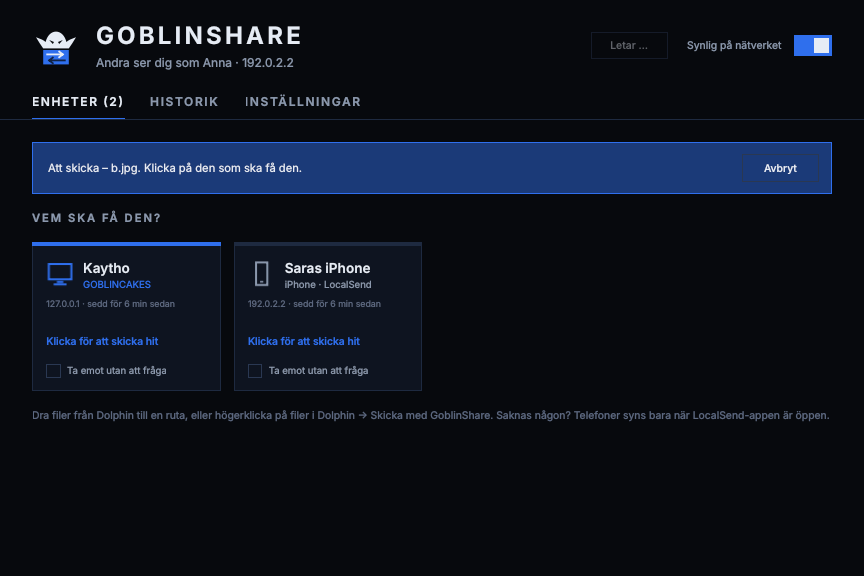
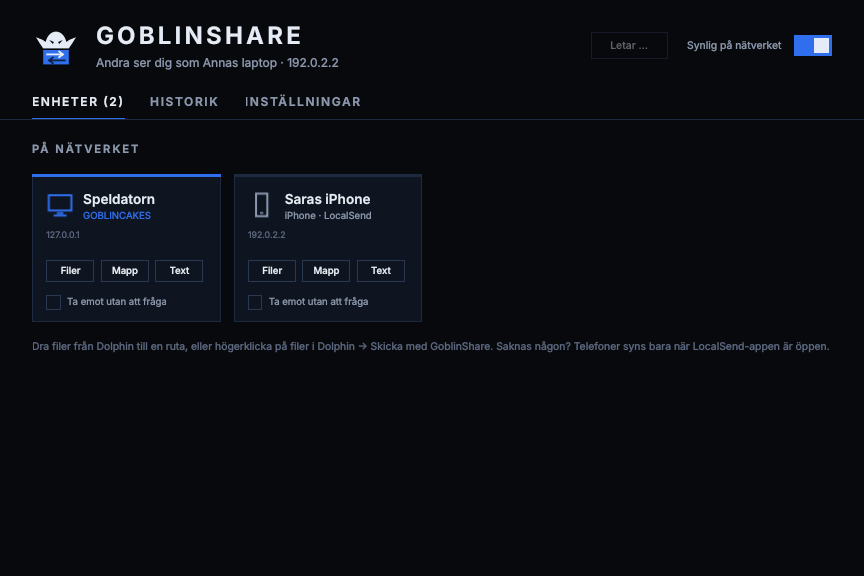
GoblinShare: nyheter, README, Kakans karta, anteckningar, testlista åt Kakan
Claude-Session: https://claude.ai/code/session_01KkxNUN9kdgkktQQkAE6Zqv

Changed region(s): [[0.0312, 0.2188, 0.9688, 0.6562], [0.0312, 0.7188, 0.9688, 0.75], [0.2812, 0.0938, 0.4062, 0.125]]

diff --git a/docs/anteckningar.md b/docs/anteckningar.md
@@ -531,3 +531,13 @@ Varv 21 (1 nov, arbetsordningen i 7 steg): färre tokens än varv 20 men längre
 Spärren mot upprepning (1 nov): jämförde (verktyg, fråga) exakt – samma misslyckade byt_text med ett mellanslag mer (1 nov 13.48) eller fler `\` före citattecknen (31 okt) slapp igenom. Nu jämförs utan mellanslag och `\`. Kvar: wowapi-uppslag som cirklar kring samma funktion med olika namn (1 nov 14.13, sex uppslag → minnet fullt) fångas inte – det är sökande, inte exakt upprepning.
 Varv 22 (1 nov): tre byt_text-kort för samma rader 25–51 (tre versioner av samma ändring, inget wowapi-uppslag) – användaren tryckte Tillåt på alla, kort 1 (sämst, gissade kommentarer) ändrade filen, 2 och 3 missade. Rättat: nytt kort som delar en rad (≥ 12 tecken) med ett tidigare kort i samma fil ersätter det (`LAST.card_spans`). Omspelat: varv 22 → 1 kort, varv 21 → 2 kort. Nytt verktygsfel → räknas inte mot stoppet. "▸ Tänker" i fönstrets och toppfältets steg mellan stegen (`think: True`, sparas inte med svaret).
 **Arbetsordningen (1 nov, användarens beslut – "ge henne möjligheten att förstå uppgiften", som en svetsares WPS):** Claude lagade gear med BARA hennes verktyg (las_fil, wowapi, sök i filer, byt_text) och det fungerade i spelet – skillnaden var arbetsordningen och att veta vad man söker. Hon hade aldrig jämfört med andra tillägg och slutade efter första av tre krav. `REPAIR_GUIDE` omskriven till 7 steg (krav → läs → följ värdena med wowapi → hur andra tillägg gör (sök i AddOns) → en ändring i taget med byt_text → bocka av kraven → säg vad som ska provas); den gamla sa sök på nätet/cat/sed. `REPAIR_COMPARE` (efter investigate) säger steg 1 först i stället för "jämför med källorna, sed -i". ~520 tokens. Exemplen allmänna (inget gear-facit).
+
+## GoblinShare (1 nov, användarens önskan: "ett goblin share program som alla på ens nätverk ser med samma os" – frugans dator ska få GOBLINCAKES)
+Valt (användaren: "Bygg GoblinShare med LocalSend-protokollet"): eget fönster ovanpå **LocalSends öppna protokoll v2** (github.com/localsend/protocol, README v2.2 läst 1 nov) i stället för ett eget – då når samma sak telefonerna (användaren Android, frun och dottern iPhone) och Windows/Mac med gratisappen LocalSend. KDE Connect valdes bort (iOS-versionen för begränsad, se "hela familjen").
+- **Filer:** kärnan `files/system/usr/share/goblincakes/share/share.py` (bara standardbiblioteket + `openssl` för certifikatet), tjänsten/CLI `files/system/usr/libexec/goblincakes-share` (`run`/`on`/`off`/`status [--json]`/`list`/`send <namn> <filer>`/`text <namn> <text>`/`scan`), användartjänsten `goblincakes-share.service` (enabled i common-modules, `ConditionPathExists=%h/.config/goblincakes/share-on`, inte i live-ISO:n), fönstret `files/system/usr/bin/goblin-share` (PySide6, QApplication för QFileDialog – ingen QML-FileDialog, alltså ingen sharpText) + `share/Main.qml`, menyposten `goblin-share.desktop` (Exec `%F` = filerna förvalda), Dolphins högerklick `/usr/share/kio/servicemenus/goblincakes-share.desktop` (`goblin-share --send %F`), `goblin share` (fönstret; `skicka <filer>`/`<filer>` = fönstret med filerna, `till`, `text`, `lista`, `leta`, `på`/`av`/`status`), Config-kortet GoblinShare (System, steget `share-on`, check `share` = flaggan, "share" i REMOVABLE → urkryssning = `goblincakes-share off`). Ikon `goblincakes-share.svg` = förslag A (två pilar åt var sitt håll); B pappersflygplan, C två skärmar – `docs/goblinshare-ikoner/` (alla.png) – **användaren har inte valt än**.
+- **Protokollet:** port 53317. Upptäckt: multicast UDP 224.0.0.167:53317 (annons `announce`+`announcement` true vid start, var 5:e min och vid "Leta igen"; går med i gruppen på varje IPv4-gränssnitt utom lo/podman/docker/virbr/veth/br-/tun/wg/tailscale (ioctl, inget `ip`); byter gränssnitt → går med igen), svar på andras annons = `POST /api/localsend/v2/register` med vår info (reserv: multicast med announce false). "Leta igen" (och 2 s efter start, och när fönstret öppnas) = protokollets HTTP-upptäckt: `POST register` till alla adresser i det egna /24 (privata nät, 64 trådar, 1,2 s, https sedan http). Fönstret skickar en annons var 30:e s medan det är öppet. Enheter som inte hörts av på 15 min tas bort. HTTPS med självsignerat certifikat (`~/.local/share/goblincakes/share/cert.pem`/`key.pem`, RSA 2048, 20 år), fingeravtryck = SHA-256 av DER (gemener, som LocalSend), visas också som klientcertifikat när vi ansluter (LocalSend läser avsändarens fingeravtryck ur certifikatet i HTTPS-läge). Utan openssl: HTTP + slumpat fingeravtryck. deviceModel `GOBLINCAKES`, deviceType desktop, version "2.1", download false (inget nedladdnings-API). Egen extra väg `GET /api/goblincakes/v1/info` → `accent` (andra GOBLINCAKES-datorers färg på korten; LocalSend frågar aldrig, annonsen orörd).
+- **Ta emot:** `prepare-upload` → ett meddelande (en fil, `text/plain`/`text`, preview = texten) sparas i historiken + notis, svar 204; annars en förfrågan: notis med åtgärderna Ta emot/Neka (`notify-send -p -w --action`, stängs med `CloseNotification` när fönstret svarade först) + rutan i fönstret; ingen svarar på 180 s = nej (403). Högst 5 obesvarade (429). **Betrodda** ("Ta emot utan att fråga" på kortet; `trusted` + `trustedNames` i `~/.config/goblincakes/share.json`) tas emot direkt – men bara om avsändarens adress = adressen enheten hittades på (fingeravtrycket står i annonsen och Pythons ssl kan inte ta ett okänt klientcertifikat, så det går att kopiera; provat: kopierat fingeravtryck från annan adress → frågar, och tar inte över den riktiga enhetens plats i listan). `upload` (sessionId+fileId+token+samma IP, annars 403; 409 om sessionen inte tar emot) strömmar till `<namn>.part` → döps om; Content-Length eller chunked; `sha256` kontrolleras om den skickas (422); `metadata.modified` → filens tid; filnamnet `safe_relpath` (mappar som "Semester/Dag1/a.txt", aldrig `..` eller absoluta – provat `../../../../tmp/gs/PWNED` → hamnar inne i mappen), samma namn → "namn (2).ext". `cancel` → avbruten. Mapp: `folder` i share.json, annars `XDG_DOWNLOAD_DIR`/GoblinShare (Hämtade/GoblinShare). Klart → notis "Tog emot … från …".
+- **Skicka:** `prepare-upload` med vår info och filerna (mappar rekursivt, inga symlänkar), väntar på svaret (180 + 60 s), 200 → `upload` per fil (256 kB-bitar, framsteg), 204 klart, 401 PIN (stöds inte – "stäng av den i LocalSend"), 403 tackade nej, 409 upptagen, 429. Avbryt: medan den väntar stängs anslutningen (shutdown på socketen), under överföringen `cancel` hos mottagaren. Text = en `.txt` med texten som preview.
+- **Fönstret ↔ tjänsten:** Unix-uttaget `$XDG_RUNTIME_DIR/goblincakes-share.sock` (600), en JSON-rad in/en ut: `status`/`scan`/`send`/`text`/`answer`/`cancel`/`trust`/`set` (alias, folder)/`forget`/`clear`. Fönstret läser status var 0,7 s. Ett fönster i taget (QLocalServer `goblin-share-<uid>`; en andra start skickar `{"send": [filer]}`). Avstängt: förklaring + **Slå på GoblinShare** (kör `goblincakes-share on`). Flikarna ENHETER (förfrågningar överst, PÅGÅR med framsteg/Avbryt/Öppna mappen, korten: färgremsa = den andra GOBLINCAKES-datorns accent, ritad skärm/telefon, Filer/Mapp/Text, dra och släpp från Dolphin, "Ta emot utan att fråga"; filer från Dolphin → "Att skicka – … Klicka på den som ska få dem"), HISTORIK (60 senaste, Öppna/Visa/Kopiera/Ta bort, Rensa), INSTÄLLNINGAR (namn – standard = kontots riktiga namn, annars datornamnet; mapp; betrodda; om LocalSend; port/fingeravtryck; Stäng av).
+- **Brandväggen:** `firewall_open()` vid `on`: firewalld av/saknas → inget; `--list-ports` täcker redan 53317 tcp+udp (Fedoras FedoraWorkstation-zon: 1025–65535) → inget; annars `--add-port=53317/tcp --add-port=53317/udp` permanent + nu (polkit frågar lösenord, som Ianseos nätverksreglage). Provat med låtsad firewall-cmd. **Vilken zon Kinoite har som standard är inte kollat på riktiga datorn.**
+- **Provat (molnet, 1 nov):** två tjänster på samma maskin (port 53317/53318, egna HOME) – filer + mapp med undermappar + 60 MB (identisk), datum bevaras, nej → "tackade nej", meddelande, betrodd utan fråga, avbryt mitt i 800 MB och medan den väntar på svar, kontrollsumma fel → 422, fel token → 403, samma namn → (2)/(3); multicast: en låtsastelefon (`announce` på gruppen) → GoblinShare svarade med `register` till telefonens server och listade den; vår egen annons hörs på gruppen. Fönstret offscreen (ENHETER med förfrågan / att skicka, HISTORIK, INSTÄLLNINGAR, avstängt) – `docs/goblinshare.png`. **Ej provat:** riktiga LocalSend-appen (iPhone/Android/Windows) åt båda hållen, två riktiga GOBLINCAKES-datorer, notisens knappar i Plasma, Dolphins högerklick, dra och släpp från Dolphin, brandväggen/zonen, att multicast fungerar i hemmets wifi/router. Testlista `docs/testlistor/goblinshare.md`.

diff --git a/README.md b/README.md
@@ -99,6 +99,14 @@ Spelar in WoW och Counter-Strike 2 av sig själv med OBS – du behöver inte tr
   <img src="docs/goblinamp-genrer.png" width="380" alt="GoblinAmps GENRER-flik: populärt i genren från Last.fm, Spotifys låtar och artister">
 </p>
 
+### GoblinShare – dela filer hemma
+Skicka filer, hela mappar och meddelanden mellan datorerna och telefonerna i hemnätverket – utan konto, utan internet och krypterat. Andra GOBLINCAKES-datorer syns av sig själva (med sin egen färg); iPhone, Android, Windows och Mac når du med gratisappen [LocalSend](https://localsend.org), eftersom GoblinShare talar samma protokoll.
+- **Dra och släpp** filer på en enhet, välj **Filer**, **Mapp** eller **Text** – eller högerklicka på filer i Dolphin → **Skicka med GoblinShare**.
+- **Inget tas emot utan att du säger ja** (notis med Ta emot / Neka), utom från enheter du själv kryssat för.
+- Slås på i Config → Program → System eller i fönstret. I terminalen: `goblin share till anna semester.jpg`.
+
+![GoblinShare med en annan GOBLINCAKES-dator och en iPhone med LocalSend](docs/goblinshare.png)
+
 ### goblin graph
 Ljudstaplar till musiken i WoW:s klassfärger – ett fönster utan ram som ligger bland de andra fönstren, med bara staplarna synliga. Varje stapel i en klassfärg, eller allt i din klass färg (läses ur stridsloggen). Fyra vyer: staplar, våg, cirkel och explosion som smäller i takt. Lyssnar bara på musikprogram (Spotify, Quod Libet m.fl.), inte på spel eller film, och kan öppnas av sig själv när musiken börjar (`goblin graph auto on`). Ikonen i systemfältet byter vy och låser fönstret.
 
@@ -106,7 +114,7 @@ Ljudstaplar till musiken i WoW:s klassfärger – ett fönster utan ram som ligg
 
 ### GOBLINCAKES Config
 Ett eget fönster som öppnas vid första inloggningen – och sedan med **Meta+C** eller från appmenyn:
-- **Program** – kryssa i det du vill ha, i hopfällbara kategorier: webbläsare (Brave, Opera GX, Google Chrome – med reglaget *Huvudwebbläsare*), spel och WoW (Lutris, Battle.net, Discord, Heroic, ProtonUp-Qt, GPU Screen Recorder, WowUp, Raider.IO, Archon m.fl.), moddar (Limo för Nexus Mods, r2modman för Thunderstore), emulatorer, media (Spotify, OBS, GIMP, VLC, EasyEffects, Quod Libet), streaming (Netflix, Disney+, HBO Max, Prime Video, YouTube, SVT Play, TV4 Play), kontor (LibreOffice, Okular, Ark, FileZilla), Ianseo och system (Claude, VS Code, Claude Code, Pika Backup m.fl.).
+- **Program** – kryssa i det du vill ha, i hopfällbara kategorier: webbläsare (Brave, Opera GX, Google Chrome – med reglaget *Huvudwebbläsare*), spel och WoW (Lutris, Battle.net, Discord, Heroic, ProtonUp-Qt, GPU Screen Recorder, WowUp, Raider.IO, Archon m.fl.), moddar (Limo för Nexus Mods, r2modman för Thunderstore), emulatorer, media (Spotify, OBS, GIMP, VLC, EasyEffects, Quod Libet), streaming (Netflix, Disney+, HBO Max, Prime Video, YouTube, SVT Play, TV4 Play), kontor (LibreOffice, Okular, Ark, FileZilla), Ianseo och system (Claude, VS Code, Claude Code, Pika Backup, GoblinShare m.fl.).
   - **Egen webbapp:** klistra in en länk så blir sidan ett eget program med ikon.
   - **Starta vid inloggning:** reglage på installerade program.
 - **Förinstallerat** – visa eller dölj systemets program i appmenyn.
@@ -133,6 +141,7 @@ Fråga om datorn eller vad som helst – i ett eget fönster (**Meta+A**), i en 
 | `goblin ai` | **Goblin AI** i terminalen – fråga om datorn eller vad som helst (`/app` eller **Meta+A** = fönstret) |
 | `goblin play` | Dina spel – skriv spelets namn eller förkortning direkt i terminalen (t.ex. `wow`, `cs2`) så startas det via Steam; `goblin play dock cs2` fäster det i dockan |
 | `goblin amp` | **GoblinAmp** – musikspelaren (`goblin amp hjälp` visar hur Spotify-listorna kopplas in) |
+| `goblin share` | **GoblinShare** – skicka filer till datorerna och telefonerna hemma (`goblin share till anna bild.jpg`, `goblin share text anna Middag!`) |
 | `goblin färg` | Byter GOBLINCAKES färg (`goblin färg mage`) |
 | `goblin graph` | Ljudstaplar i WoW:s klassfärger till musiken (`goblin graph mage`, `goblin graph cirkel`) |
 | `goblin screen` | Vilken skärm ett program öppnas på (`goblin screen add discord screen 2`) |

diff --git a/docs/testlistor/goblinshare.md b/docs/testlistor/goblinshare.md
@@ -1,0 +1,47 @@
+# GoblinShare på riktigt (två datorer och en telefon)
+
+Så här provar du (rader utan "- " först läses inte av /testa):
+  1. Vänta på nästa image och starta om datorn.
+  2. I Claude Code på datorn, skriv: "Kopiera docs/testlistor/goblinshare.md till Kakans testlistor".
+     Claude kör då (i repomappen):
+       git pull
+       mkdir -p ~/.local/share/goblincakes/testlistor
+       cp docs/testlistor/goblinshare.md ~/.local/share/goblincakes/testlistor/
+  3. Ha telefonen nära med appen LocalSend installerad (App Store / Google Play), på samma wifi som datorn.
+     Har frugans dator GOBLINCAKES: slå på GoblinShare där också (Config → Program → System).
+  4. Öppna Goblin AI och skriv /testa goblinshare. Kakan går igenom punkterna nedan och frågar dig.
+
+- GoblinShare finns i imagen
+  kör: test -x /usr/libexec/goblincakes-share && test -x /usr/bin/goblin-share && systemctl --user cat goblincakes-share.service >/dev/null && echo finns
+  väntat: finns
+- Slå på GoblinShare
+  fråga: Öppna GOBLINCAKES Config → Program → System och kryssa i GoblinShare (eller kör goblin share på). Frågade datorn efter lösenordet (brandväggen)? Svara ja eller nej – båda är OK.
+- Tjänsten kör
+  kör: systemctl --user is-active goblincakes-share
+  väntat: active
+- Porten och brandväggen
+  kör: ss -lntu | grep 53317; firewall-cmd --get-default-zone; firewall-cmd --list-ports
+  väntat: 53317 både som tcp och udp; i list-ports antingen 1025-65535 eller 53317 för både tcp och udp
+- Status från tjänsten
+  kör: /usr/libexec/goblincakes-share status
+  väntat: "Synlig som" med ditt namn och en adress som börjar på 192.168 eller 10., ingen FEL-rad
+- Telefonen syns i GoblinShare
+  fråga: Öppna LocalSend på telefonen, sedan GoblinShare (appmenyn eller goblin share) och tryck Leta igen. Syns telefonen som en ruta under PÅ NÄTVERKET?
+- Datorn syns i LocalSend
+  fråga: Syns datorn i LocalSend-appen på telefonen (med ditt namn och GOBLINCAKES)? Dra ner för att uppdatera om den inte syns.
+- Från datorn till telefonen
+  fråga: Dra en bild från Dolphin till telefonens ruta i GoblinShare. Frågade telefonen, och kom bilden fram när du tryckte acceptera?
+- Från telefonen till datorn
+  fråga: Skicka en bild från LocalSend på telefonen till datorn. Kom en notis med Ta emot / Neka, och hamnade bilden i Hämtade/GoblinShare när du tryckte Ta emot?
+- Den mottagna bilden
+  kör: ls -la ~/Hämtade/GoblinShare/ 2>/dev/null || ls -la ~/Downloads/GoblinShare/
+  väntat: bilden från telefonen finns där (inte som .part)
+- Meddelande från telefonen
+  fråga: Skicka en text från LocalSend (Skicka → Text) till datorn. Kom en notis med texten, och syns den under HISTORIK i GoblinShare med en Kopiera-knapp?
+- Dolphins högerklick
+  fråga: Högerklicka på en fil i Dolphin. Finns "Skicka med GoblinShare", och öppnas GoblinShare med "Att skicka – …" överst?
+- Den andra GOBLINCAKES-datorn
+  fråga: Om frugans dator har GoblinShare på: syns den med GOBLINCAKES och en färgad remsa överst på rutan, och går det att skicka en mapp dit?
+- Tjänstens logg
+  kör: journalctl --user -u goblincakes-share -n 30 --no-pager
+  väntat: inga Traceback-rader

diff --git a/files/system/usr/share/goblincakes/ai/karta.md b/files/system/usr/share/goblincakes/ai/karta.md
@@ -259,6 +259,24 @@ Ord: goblinamp, amp, musikspelare, winamp, spotify, spellista, låtar, mediatang
 - GRAF under spelaren är genomskinlig (fönstret har alfakanal; spelaren och spellistan egna bakgrunder). Omslag vid
   hovring = Spotifys bild-URL (`image` på album- och listrader, spotifyweb.py `_cover`).
 
+## GoblinShare
+Ord: goblinshare, share, dela, skicka fil, ta emot, localsend, airdrop, filer till telefonen, filer mellan datorerna
+- Filer, mappar och meddelanden mellan datorerna och telefonerna i hemnätverket med LocalSends protokoll v2 (andra
+  GOBLINCAKES-datorer har GoblinShare, telefoner/Windows/Mac appen LocalSend). Tjänsten goblincakes-share
+  (/usr/libexec/goblincakes-share run, kod /usr/share/goblincakes/share/share.py), fönstret /usr/bin/goblin-share,
+  Dolphins högerklick "Skicka med GoblinShare" (/usr/share/kio/servicemenus/goblincakes-share.desktop).
+- Påslaget = flaggan ~/.config/goblincakes/share-on (Config → Program → System, fönstrets reglage, `goblin share på`).
+  Inställningar ~/.config/goblincakes/share.json (namn, mapp, betrodda), certifikat och historik
+  ~/.local/share/goblincakes/share/. Mottagna filer: Hämtade/GoblinShare om inget annat valts.
+- Port 53317 TCP (HTTPS) och UDP (multicast 224.0.0.167). Syns ingen: samma wifi? gästnätverk/"AP-isolering" i
+  routern stoppar det; brandväggen: `firewall-cmd --list-ports` (Fedoras zon släpper in 1025–65535, annars
+  öppnas 53317 när GoblinShare slås på); ett annat program på porten (LocalSend själv) = felrad i fönstret.
+  Telefonen syns bara medan LocalSend-appen är öppen. "Leta igen" frågar också hela /24-nätet direkt.
+- `goblin share lista` (enheterna), `goblin share status`, `goblin share till <namn> <fil>`, `goblin share text <namn> <text>`.
+Kontroll: `systemctl --user is-active goblincakes-share`
+Kontroll: `/usr/libexec/goblincakes-share status`
+Kontroll: `journalctl --user -u goblincakes-share -n 30 --no-pager`
+
 ## goblin graph
 Ord: graph, ljudgraf, staplar, visualisering
 - /usr/bin/goblin-graph (QML i /usr/share/goblincakes/graph/), tjänsten goblincakes-graph öppnar den när musik

diff --git a/CLAUDE.md b/CLAUDE.md
@@ -89,6 +89,7 @@ Palett: Void #07090D, Night #0E1420, Deep #12203A, Accent #2F6FED, Frost #E6ECF5
 - [x] Kvot-widget i toppfältet (Claude + ChatGPT/Codex, 5 h + vecka, `goblincakes-quota`)
 - [x] Egen docka `org.goblincakes.dock` (bara fästa, våg, accent; ersatte icontasks 29 okt)
 - [x] ChatGPT-appen (OpenAIs RPM uppackad i hemmappen, `goblincakes-chatgpt`; Goblin AI → "Skicka till ChatGPT" via urklipp) – ej provad med riktiga paketet
+- [x] GoblinShare (filer/mappar/text mellan datorerna och telefonerna hemma, LocalSend-protokollet; Config → System, Dolphins högerklick, `goblin share`) – provat i molnet med två tjänster, ej mot riktiga LocalSend; ikonval A/B/C väntar
 - [x] Goblin AI ny layout (rutor Kakan/Projekt/Kommandon/Modeller, flikar, stående skärm; MAPPAR → VS Code eller Claude Code i terminalen) – provad offscreen, ej på riktigt
 
 ## Att göra
